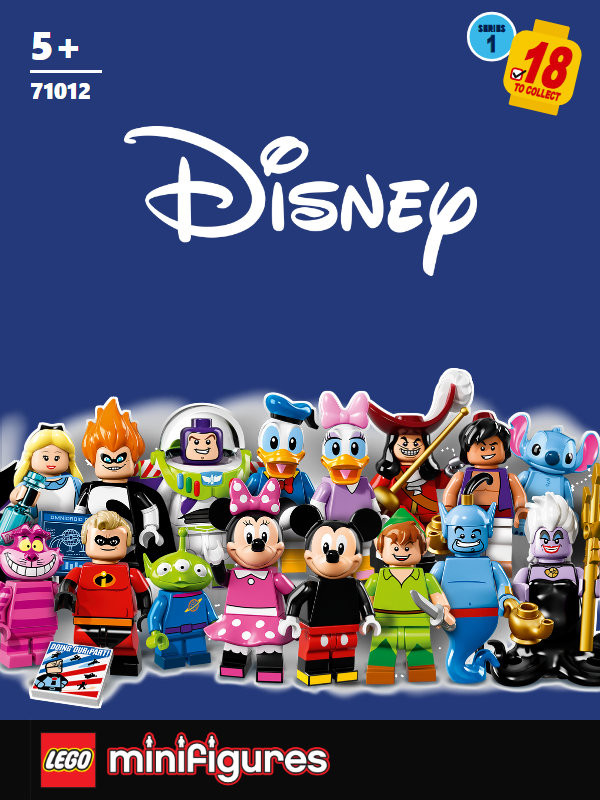
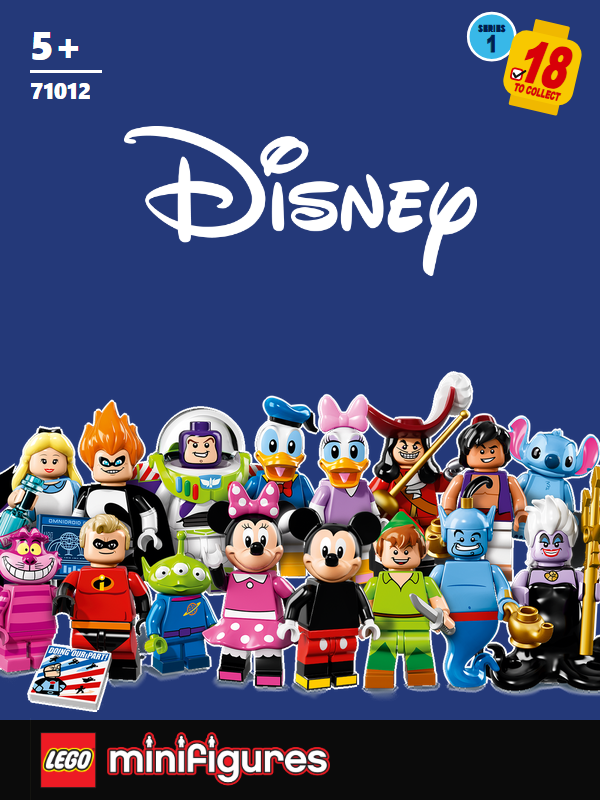
fix(V2-11): 71012 grey glow removed (SHADOW_DROP)

Changed region(s): [[0.0, 0.4375, 1.0, 0.9062]]

diff --git a/scripts/build_cards.py b/scripts/build_cards.py
@@ -155,8 +155,8 @@ def badge(number, count):
 
 # Official transparent crowd PNGs that keep a soft grey/white floor shadow and glow in their alpha. Owner round 2,
 # 2026-11-14: "71037 71038 71039 71045 71046 71047 all have shadow!". Measured 2026-11-14: 5-10 % of their pixels are
-# semi-transparent and grey (references 71009/71051: 1 %).
-SHADOW_DROP = {"71037", "71038", "71039", "71045", "71046", "71047"}
+# semi-transparent and grey (references 71009/71051: 1 %). 71012 added 2026-11-15 (owner "71012 not good"; 9 % grey).
+SHADOW_DROP = {"71012", "71037", "71038", "71039", "71045", "71046", "71047"}
 SHADOW_ALPHA, SHADOW_SAT = 200, 30
 
 
